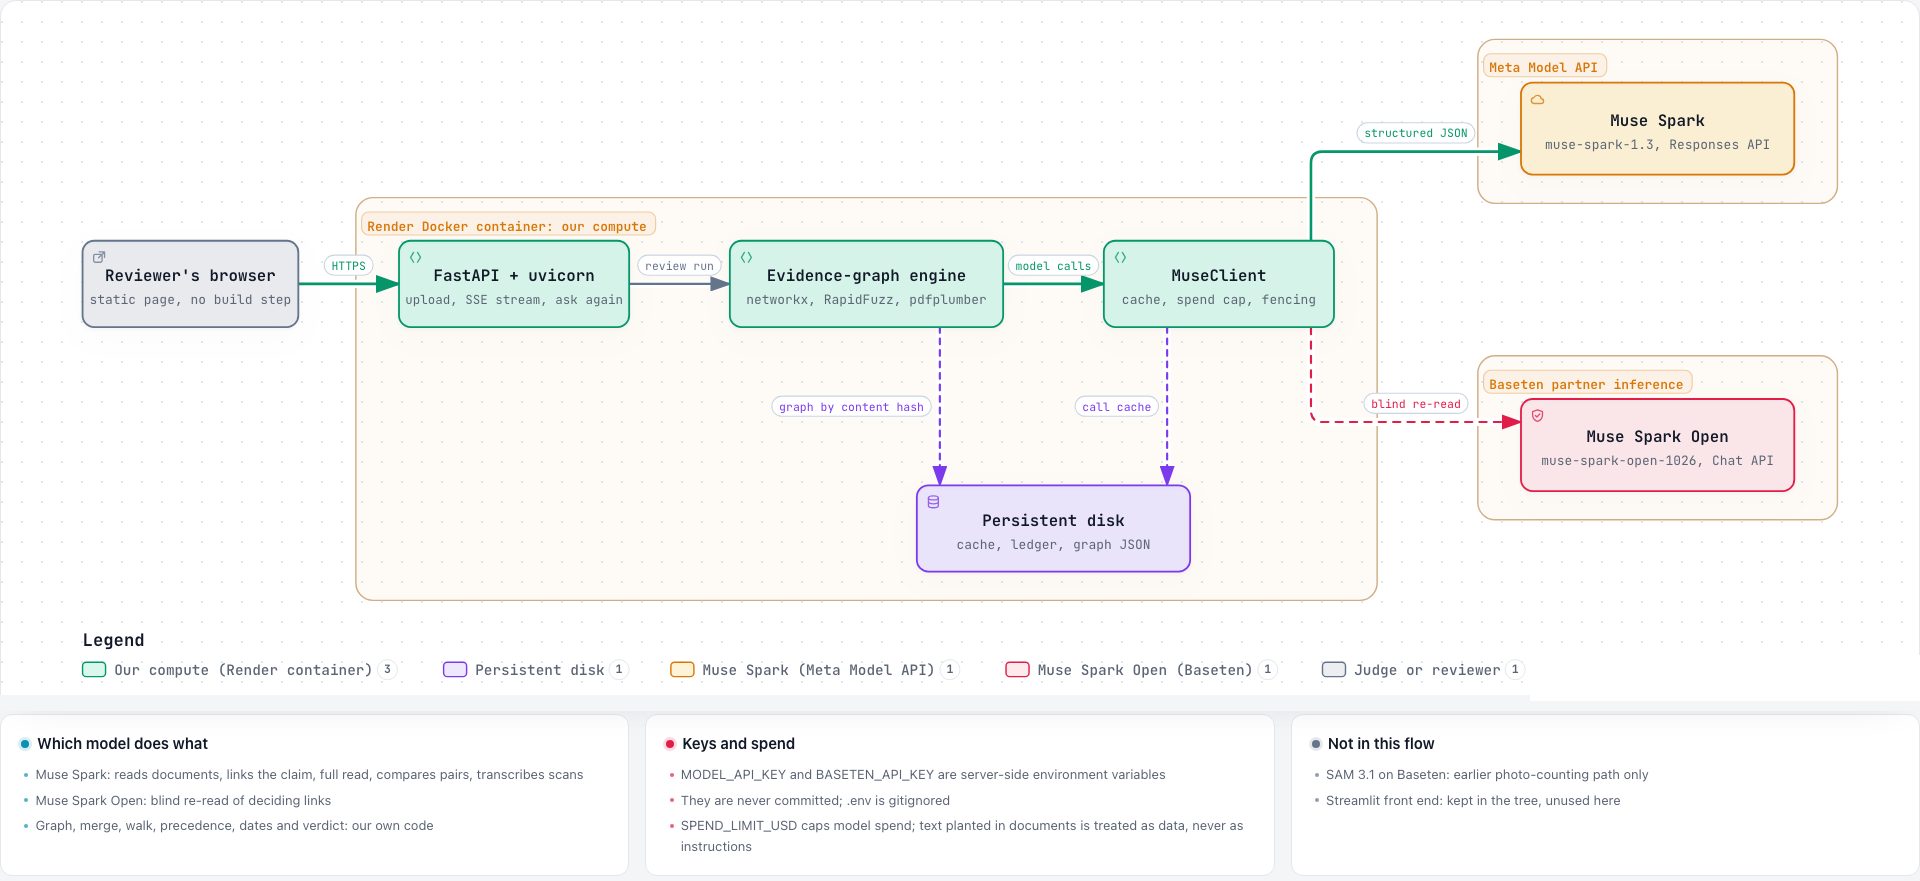
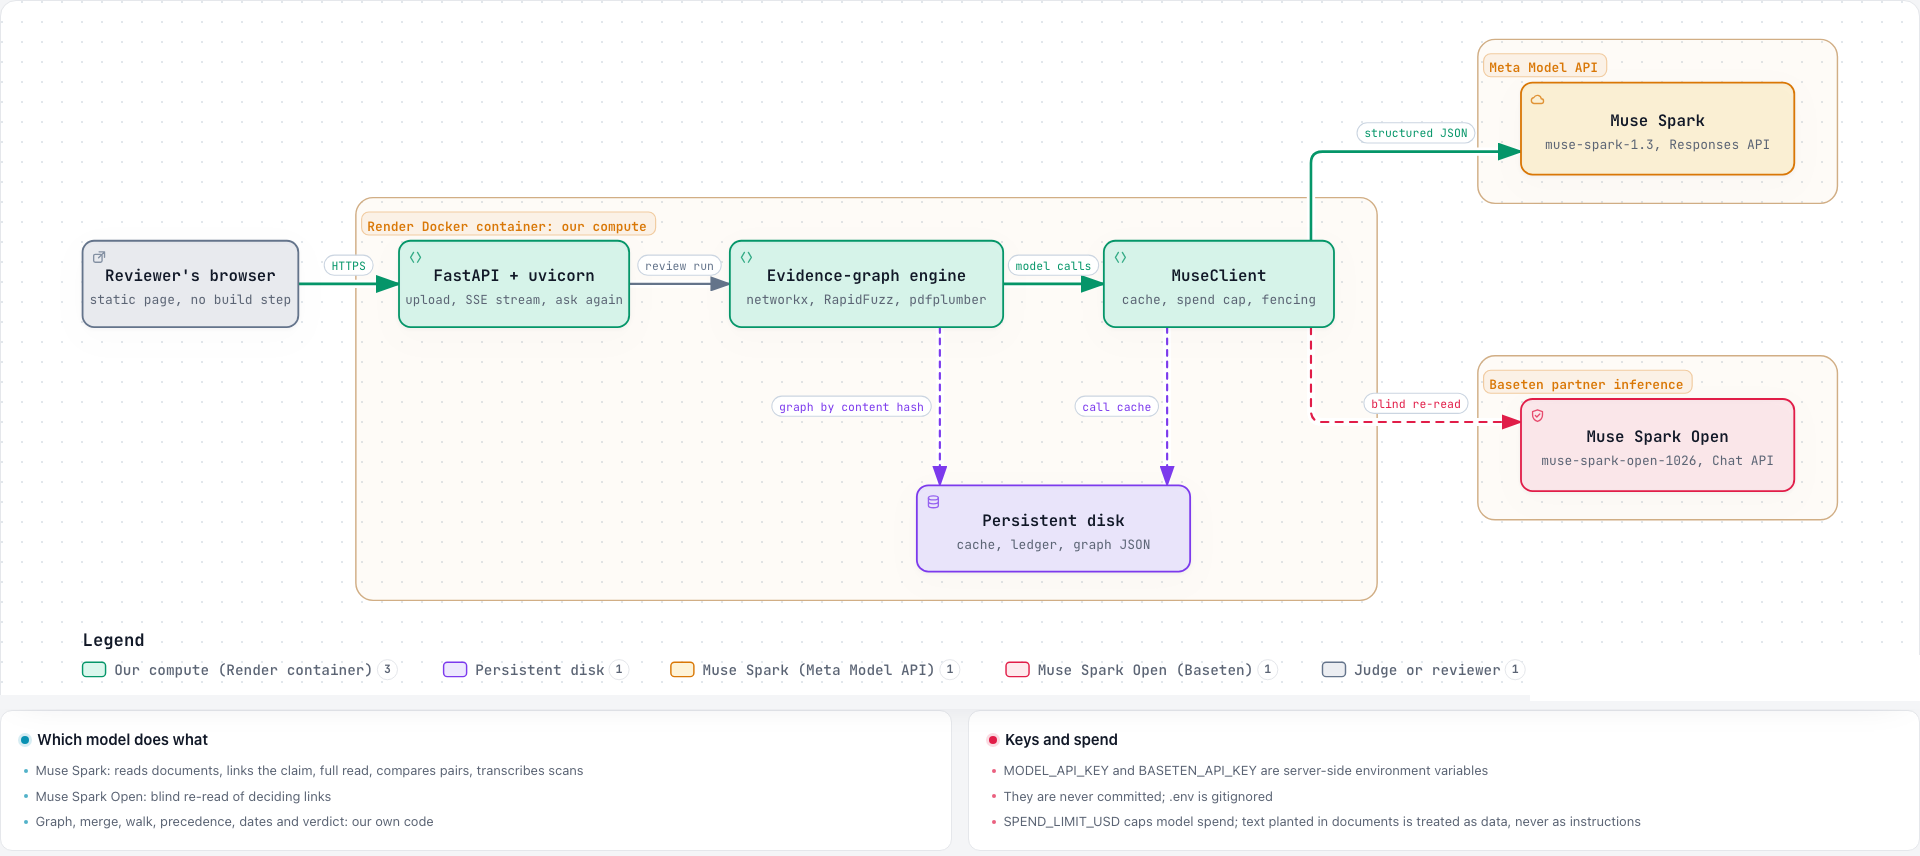
docs: drop SAM 3.1 from the models table and diagram, add photo and video evidence as a next step

diff --git a/docs/diagrams/where-it-runs.html b/docs/diagrams/where-it-runs.html
@@ -5640,17 +5640,6 @@ OTHER DEALINGS IN THE FONT SOFTWARE.
           <li>SPEND_LIMIT_USD caps model spend; text planted in documents is treated as data, never as instructions</li>
         </ul>
       </div>
-
-      <div class="card">
-        <div class="card-header">
-          <div class="card-dot slate"></div>
-          <h3>Not in this flow</h3>
-        </div>
-        <ul>
-          <li>SAM 3.1 on Baseten: earlier photo-counting path only</li>
-          <li>Streamlit front end: kept in the tree, unused here</li>
-        </ul>
-      </div>
     </div>
     <nav class="node-outline no-print" id="node-outline" hidden aria-labelledby="node-outline-title">
       <div class="node-outline-head">

diff --git a/README.md b/README.md
@@ -76,7 +76,6 @@ The graph is built once per packet and cached on the packet's content hash, so a
 | --- | --- | --- |
 | **Muse Spark** (`muse-spark-1.3`) | Meta Model API | Step 1 reading and gleaning pass; step 5 claim splitting and enum-constrained linking; step 6 full read; step 7 pairwise comparison; transcription of scanned pages with a box per line |
 | **Muse Spark Open** (`meta-models/muse-spark-open-1026`) | Baseten (partner inference) | Step 7: a blind second reader of deciding links, capped per claim. It never sees the relation or the verdict. The review page reports how many were re-read and how many it confirmed. |
-| **SAM 3.1** | Baseten | Counting items in photos, in the earlier engine path only. **Not used in the graph demo.** |
 
 All graph building, alignment, merging, walking, precedence, dating and the final verdict run on our own compute (a Docker container on Render, or your machine). Every model call goes through one client with a disk cache, a spend cap, and fencing against instructions planted in documents.
 
@@ -139,6 +138,8 @@ Each known weakness has a traced cause and a planned fix that follows the same r
 | Emails, image pages and table rows not reached | 92% of gold evidence extracted, 73% reached by the walk | "About" edges from each document to its subjects |
 | Small samples | n = 29 and n = 30, intervals overlap | A larger held-out slice |
 
+**Next field: photo and video evidence.** Meta's SAM 3.1 can segment and count objects in images and video, so the same claim-to-evidence loop could check claims backed by photos or footage (for example damage, quantities or site conditions) and circle the deciding region, the way ProofGraph circles a clause today. We built an early counting path with it and have not brought it into the graph demo.
+
 Out of scope, and said so on screen: arithmetic across many figures, law outside the packet (shown as "cited, not in the packet"), and subjective claims.
 
 ## Run it
@@ -185,7 +186,7 @@ Not built here, used as named dependencies:
 | pydantic, Pillow, openai SDK | MIT, MIT-CMU, Apache-2.0 | Typed contracts, page images, calling the model endpoints |
 | Schibsted Grotesk, Source Serif 4 (Google Fonts) | SIL OFL | Typography |
 
-Full list and attribution in [`NOTICE.md`](NOTICE.md). Left in the tree but **not part of the graph demo**: the SAM 3.1 counting path, the Streamlit front end (`app/streamlit_app.py`) and the freight example in `examples/freight/`.
+Full list and attribution in [`NOTICE.md`](NOTICE.md). Earlier-engine code (a photo-counting path using SAM 3.1, a Streamlit front end, a freight example) remains in the tree for history and is not used by the demo.
 
 **Ideas studied, not code copied.** graphify (trust tiers and weakest-link confidence), LangExtract (graded source grounding with offsets), Graphiti (a small declared edge schema, "unsure" allowed), LightRAG (the gleaning recall pass), Microsoft LazyGraphRAG (cheap build, model calls only where a verdict depends on them), KAG (schema-constrained extraction), the deontic-formalisation literature and LegalRuleML (rule-shaped statements), and ContractNLI (the label set). Each was adapted to the one rule here: code decides, and nothing the code cannot verify against a quote is allowed to decide. See [docs/evidence-graph.md](docs/evidence-graph.md).
 
